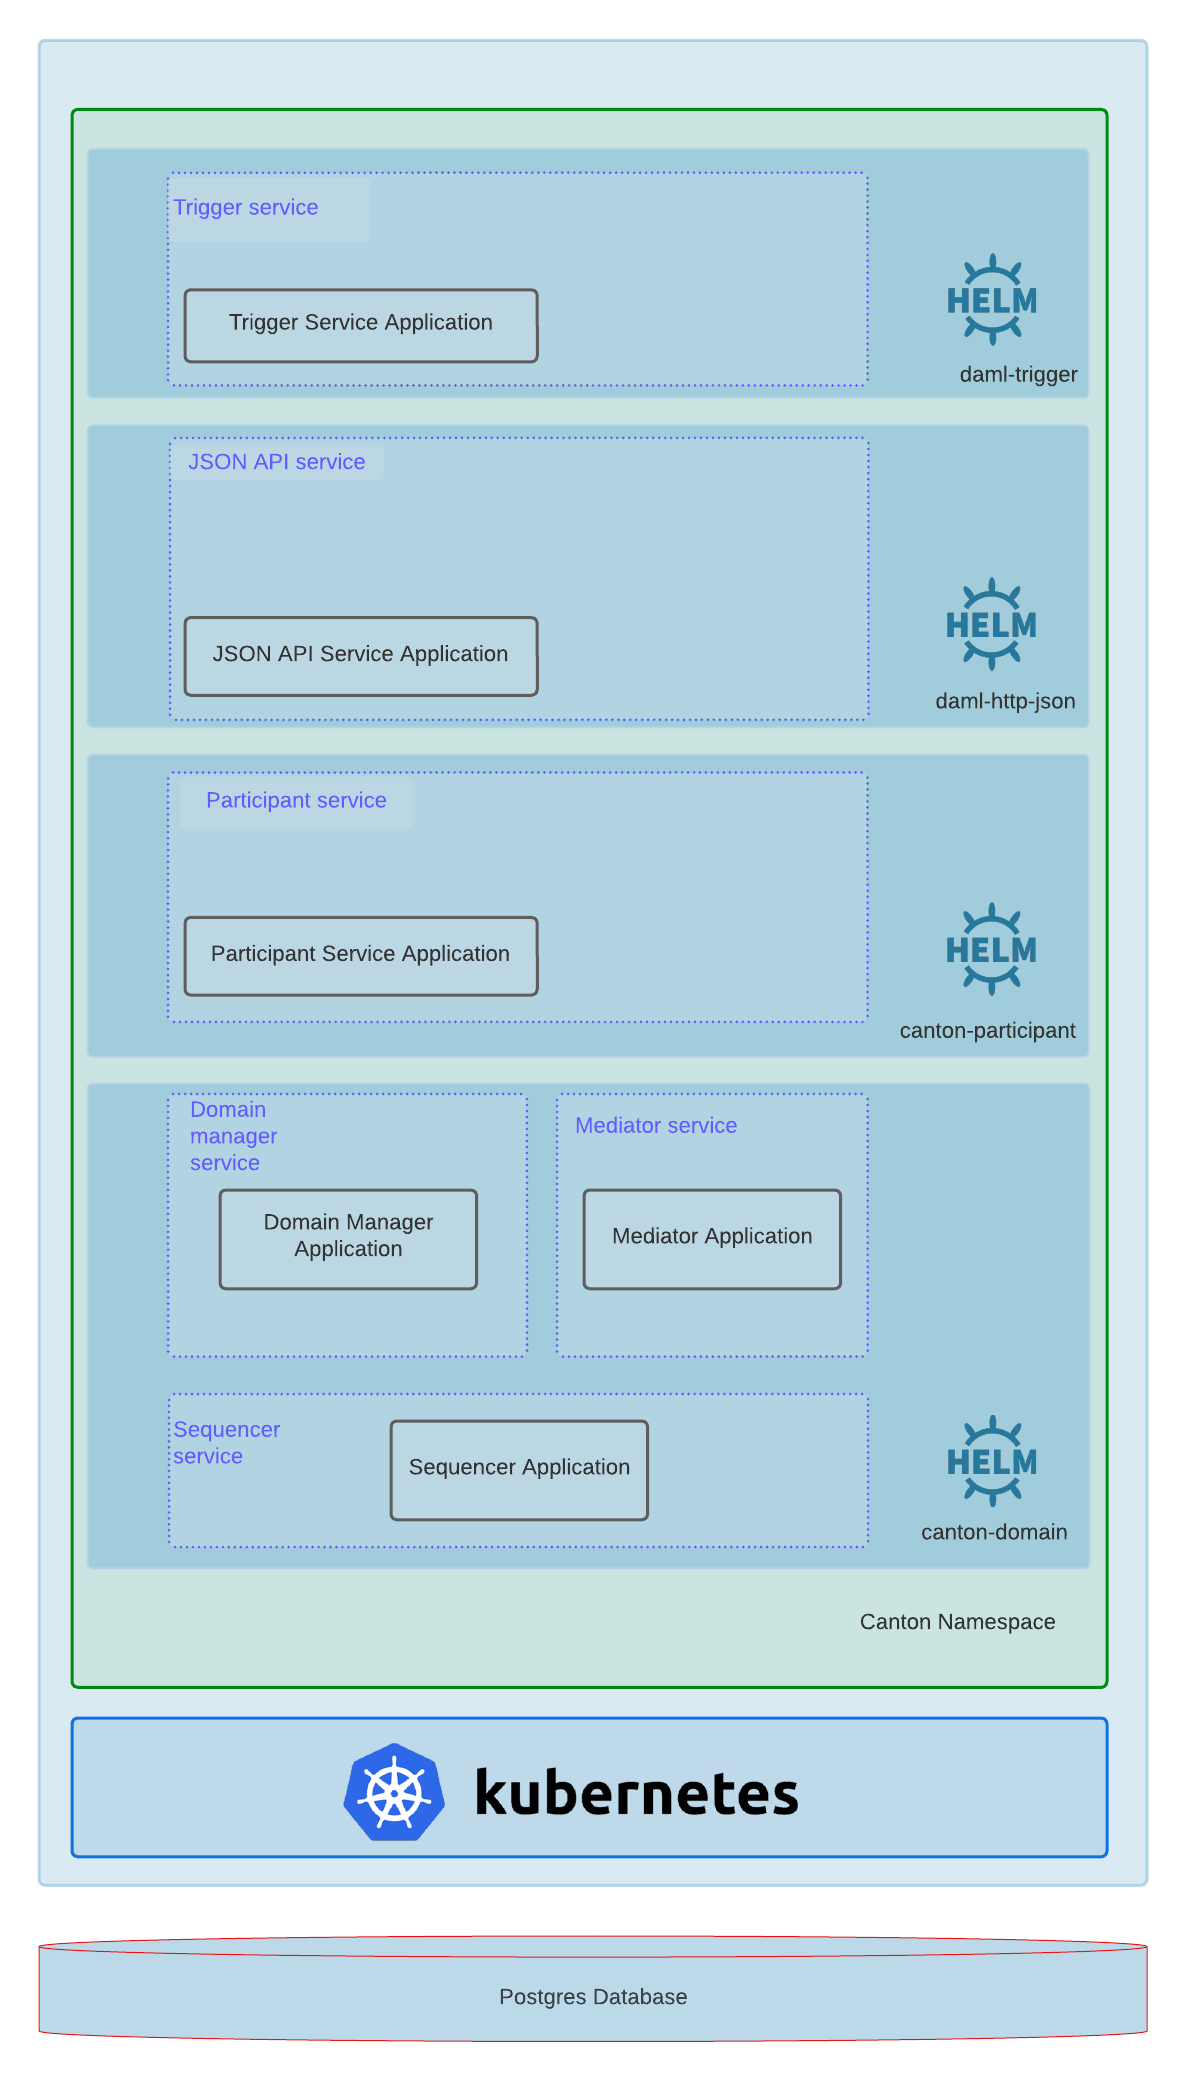
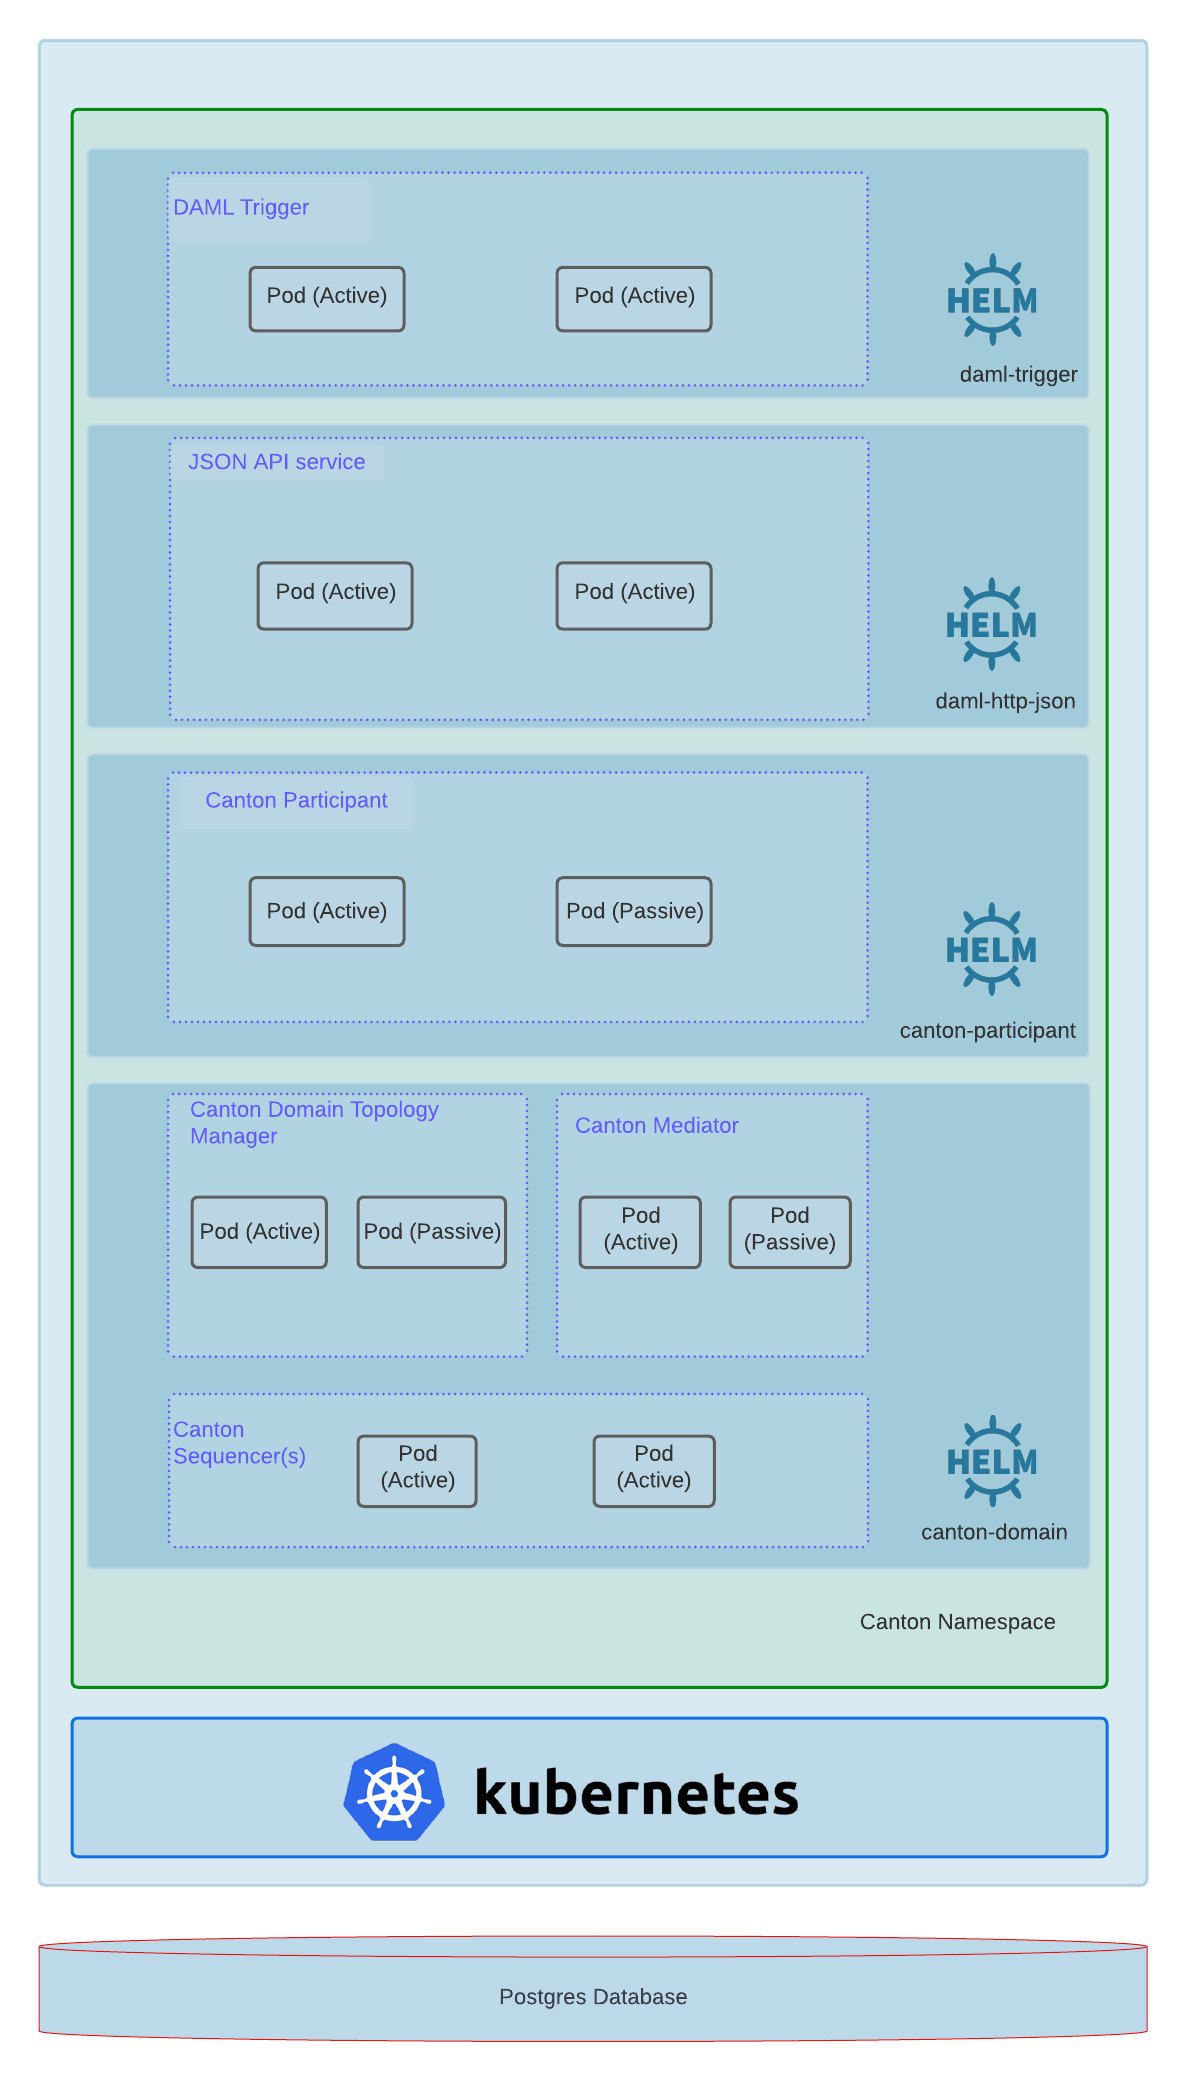
New architecture diagram and note about same postgres instance but not db

diff --git a/README.md b/README.md
@@ -21,6 +21,8 @@ The following document intends to explain how to install the solution on a kuber
 
 <img src="./images/k8s-deployment.png" width="400px">
 
+⚠ Please note that in the architecture example we are sharing the same Postgres instance/DBMS but not the same database.
+
 ## TL;DR
 
 ```bash
